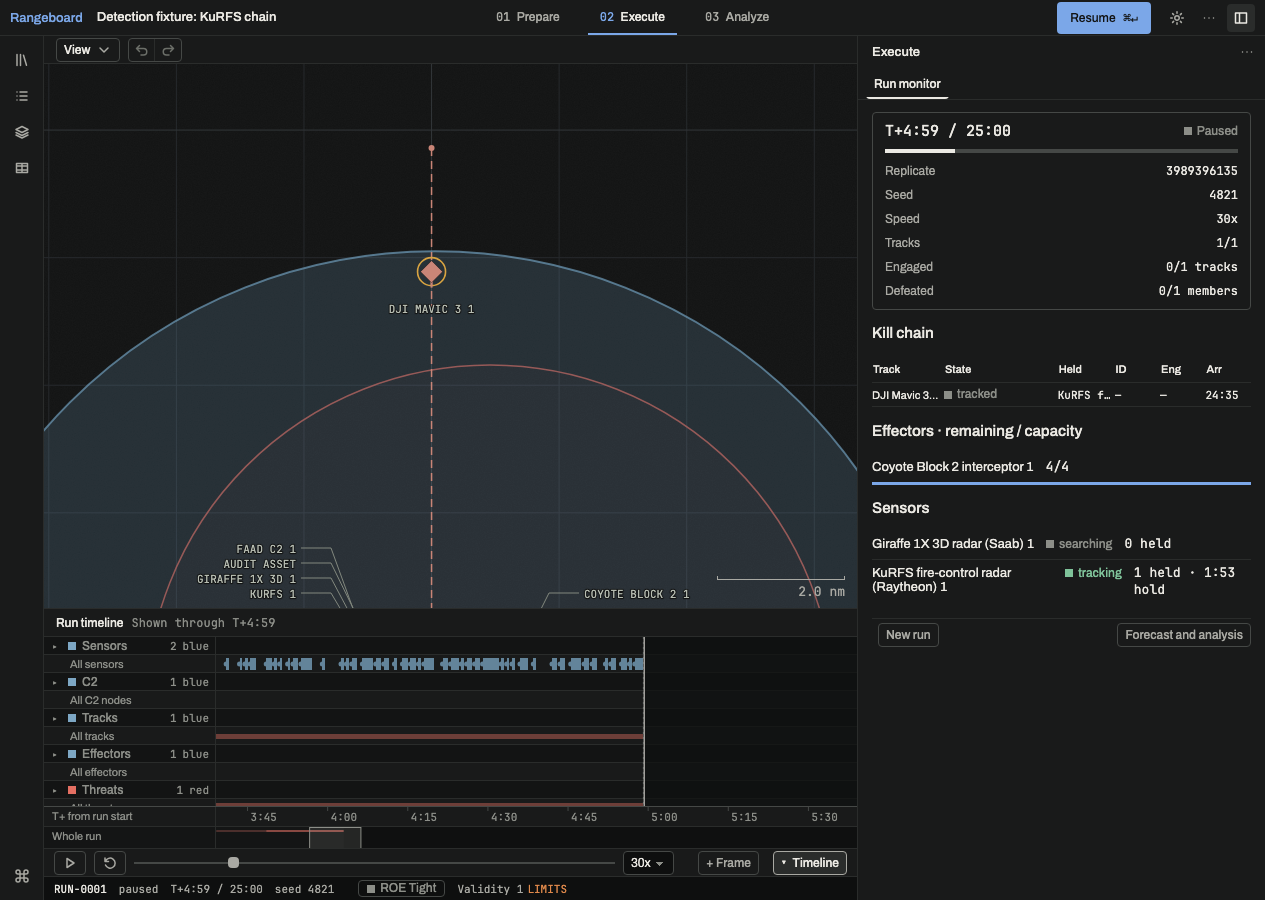
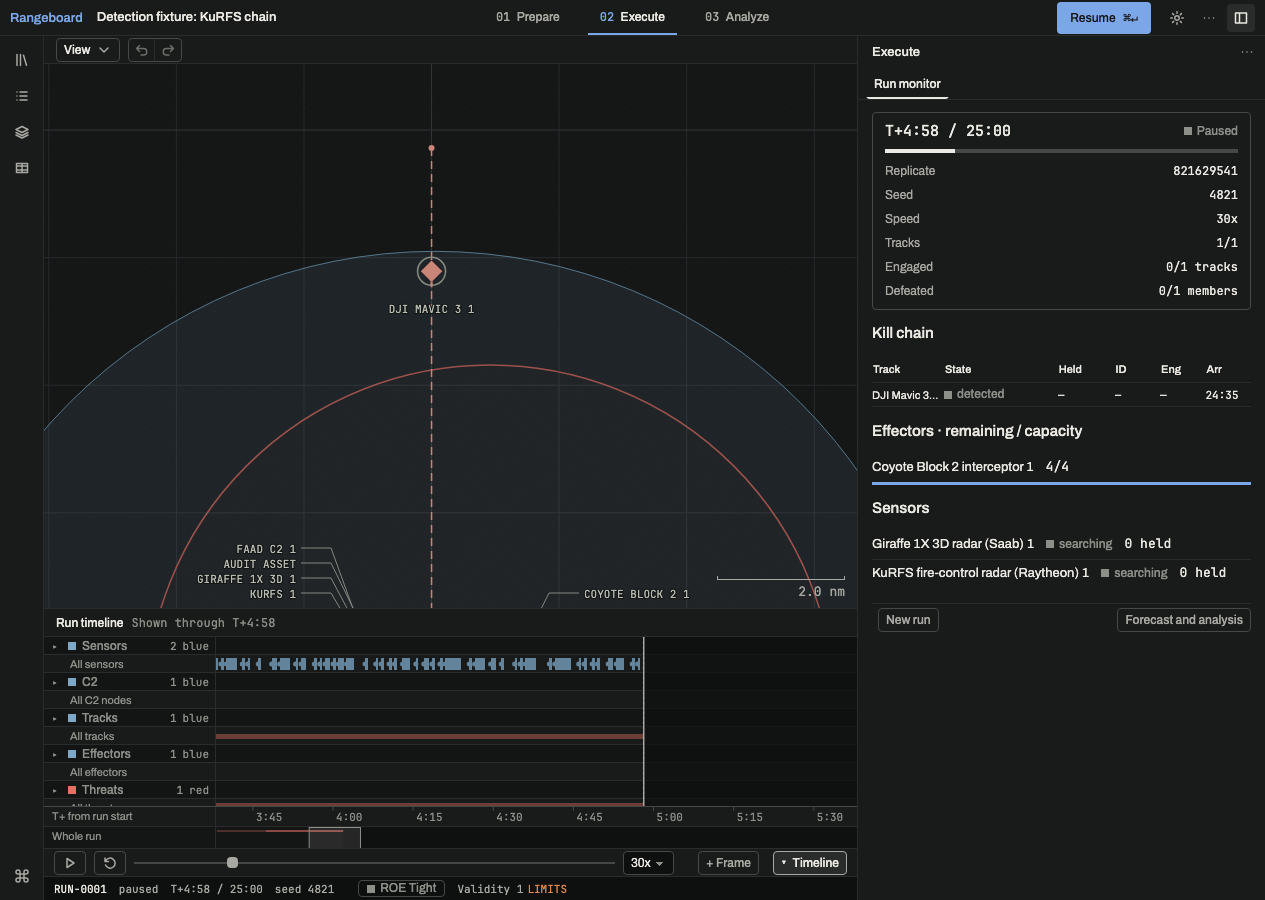
Timeline P2 review fixes: the browser check is rerun at 8e58df2 under docs/field-te/evidence/run-timeline-p2-2026-09-27, with findings.json, three oxipng screenshots and the updated script. At 30x the open strip has no frame interval over 33 ms (max 24.9 ms; closed 16.8 ms). The axis tick group and 

diff --git a/docs/field-te/evidence/run-timeline-p2-2026-09-27/README.md b/docs/field-te/evidence/run-timeline-p2-2026-09-27/README.md
@@ -1,10 +1,11 @@
 # Run timeline Phase 2 browser check, 2026-09-27
 
-Captured on branch `timeline/p2` at `020e540` (lanes 2A and 2B merged, the engagement
-strip deleted, the axis and the overview moved under the rows, the entry-graph freeze
-rewritten). The Vite dev server ran the source at that commit. Playwright used headless
-Chromium at a 1265 by 900 viewport in the dark theme. The fixture is the JIATF-401
-laydown with the threat spawned outside every ring,
+Captured on branch `timeline/p2` at `8e58df2` (the Phase 2 review fixes on top of
+`3e1c397`: the axis and the overview window move with the rows' pan and glide, the
+Analyze horizon is the observed end, the playhead stays inside the plot at the run end,
+and a resizer drag saves once). The Vite dev server ran the source at that commit.
+Playwright used headless Chromium at a 1265 by 900 viewport in the dark theme. The
+fixture is the JIATF-401 laydown with the threat spawned outside every ring,
 [detection-outside-rings.json](../../../../src/playback/__fixtures__/detection-outside-rings.json),
 loaded through `parseAutosave` and `loadScenario`. The run is 1,500 s long.
 
@@ -15,8 +16,8 @@ not a test.
 
 | File | State |
 | --- | --- |
-| `execute-midrun-collapsed.png` | Execute, paused at T+4:59 after 10 s at 30x, strip open at 240 px, every group collapsed |
-| `execute-group-and-sensor-expanded.png` | Execute at T+4:59, the Sensors group open, the KuRFS sensor expanded to its sub-lane |
+| `execute-midrun-collapsed.png` | Execute, paused at T+4:58 after 10 s at 30x, strip open at 240 px, every group collapsed |
+| `execute-group-and-sensor-expanded.png` | Execute at T+4:58, the Sensors group open, the KuRFS sensor expanded to its sub-lane |
 | `analyze-strip-open.png` | Analyze after `completeRun`, strip open, the whole record shown |
 
 ## Findings
@@ -29,26 +30,36 @@ not a test.
 
   | Strip | Intervals | Over 20 ms | Over 33 ms | Max ms | p99 ms |
   | --- | --- | --- | --- | --- | --- |
-  | Open | 1,149 | 0 | 0 | 16.9 | 16.7 |
-  | Closed | 1,202 | 0 | 0 | 13.4 | 9.3 |
+  | Open | 1,146 | 1 | 0 | 24.9 | 16.7 |
+  | Closed | 1,198 | 0 | 0 | 16.8 | 9.3 |
 
   The open run has no interval over 33 ms beyond the closed run, so the check passes.
-- Marks and the horizon (6b). Every group and sensor was open. At T+1:15, T+2:30, T+3:44
-  and T+4:59 (paused) the script read each drawn mark glyph. A glyph sits at
-  `cx = tS * pxPerS` in the pan wrapper, so its time is `cx / pxPerS`; no product code
-  changed. It compared the glyphs with `runTimelineOf(view, horizon)` and with the same
-  view at the run duration. At each time, 54, 110, 184 and 266 marks drew. No drawn
-  mark is past the horizon. The drawn set equals the model set. Every mark of the full
-  record at or before the horizon drew.
-- Scrub (6c). At T+4:59, `observedThroughS` read 299.10 and 266 marks drew. After a
-  scrub back to T+1:30, 64 marks drew. After a scrub forward to T+4:59, 266 marks drew.
-  `observedThroughS` stayed 299.10 through all three reads.
+- Transforms. Paused after 6a with Follow on, the axis tick group and the pan wrapper
+  both read `translateX(-1164.97px)`. The pan wrapper, the playhead, the axis tick group
+  and the overview window all read `transform 100ms linear`.
+- Marks and the horizon (6b). Every group and sensor was open. At T+1:15, T+2:29, T+3:44
+  and T+4:58 (paused) the script read each drawn mark glyph. A glyph sits at
+  `cx = tS * pxPerS` in the pan wrapper, so its time is `cx / pxPerS`. It compared the
+  glyphs with `runTimelineOf(view, horizon)`, with the horizon RunTimeline.tsx uses, and
+  with the same view at the run duration. At each time, 64, 138, 224 and 302 marks drew.
+  No drawn mark is past the horizon. The drawn set equals the model set. Every mark of
+  the full record at or before the horizon drew.
+- Scrub (6c). At T+4:58, `observedThroughS` read 298.16 and 302 marks drew. After a
+  scrub back to T+1:29, 76 marks drew. After a scrub forward to T+4:58, 302 marks drew.
+  `observedThroughS` stayed 298.16 through all three reads.
 - Analyze (6d). After `completeRun`, the model horizon is 1,500 s, equal to the run
   duration. The plot and the overview draw no unobserved region (width 0 px). The header
-  reads `Shown through T+25:00`. The drawn marks equal the model marks (522).
+  reads `Shown through T+25:00`. The drawn marks equal the model marks (532).
+- Playhead at the run end. In Analyze at T+25:00 with Follow on, the plot spans x 216 to
+  857 px and the playhead spans 856 to 857 px, inside the plot.
+- Analyze scrub. After a scrub back to T+5:00 in Analyze, the model horizon stays
+  1,500 s, the unobserved region is 0 px wide, the header still reads
+  `Shown through T+25:00` and 532 of 532 marks draw.
 - Height (6e). The dock read 240 px. Three Shift+ArrowUp presses on the resizer set it
-  to 360 px and stored `360` under `rangeboard.runtimeline.height`. After a reload and a
-  return to Execute, the dock read 360 px.
+  to 360 px and stored `360` under `rangeboard.runtimeline.height`. A 40 px pointer drag
+  down in 40 moves set the dock to 320 px with one storage write (`320`). A click on the
+  resizer with no move wrote nothing. One Shift+ArrowUp returned the dock to 360 px.
+  After a reload and a return to Execute, the dock read 360 px.
 - Page errors: 0.
 
 ## Rerun
